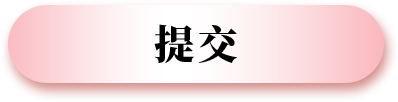
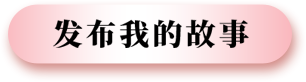
ui修改

diff --git a/src/view/Pictures.vue b/src/view/Pictures.vue
@@ -8,10 +8,10 @@
             multiple
             :after-read="afterRead">
         </van-uploader>
-        <van-field v-model="city" placeholder="所在城市" />
+        <van-field style="background-color: #fddbde" v-model="city" placeholder="所在城市" />
         <van-field v-model="clinicName" placeholder="诊所名称" />
         <div class="row">
-          <van-field label-width="30" v-model="userName" placeholder="医生名称" />
+          <van-field label-width="30" style="background-color: #fddbde" v-model="userName" placeholder="医生名称" />
           <van-dropdown-menu>
             <van-dropdown-item v-model="recommendation" :options="option1" />
           </van-dropdown-menu>
@@ -90,12 +90,12 @@ const afterRead = (file:any) => {
 
 // 表单
 const option1 = [
-  { text: '自荐', value: '自荐' },
-  { text: '推荐', value: '推荐' },
+  { text: '我的故事', value: '我的故事' },
+  { text: '他的故事', value: '他的故事' },
 ];
 const city = ref('')
 const clinicName = ref('')
-const recommendation = ref('自荐')
+const recommendation = ref('我的故事')
 const userName = ref('')
 const textarea = ref('')
 const fromData = {
@@ -117,9 +117,9 @@ const sumbitFrom = () => {
     fromData.content = textarea.value
     fromData.imgUrl = files.value
     fromData.title = userName.value
-    console.log(fromData)
     userFrom(JSON.stringify(fromData)).then((res:any) =>{
       if (res.code === 200) {
+        cookies.setCookie('fromData',JSON.stringify(fromData))
         Dialog.confirm({
           message: '提交成功',
           confirmButtonText:"查看更多",
@@ -154,30 +154,32 @@ const sumbitFrom = () => {
 
 <style scoped lang="less">
   .content {
-    height: 100vh;
     overflow: auto;
     background: url("../assets/images/uploadBgimg.png") no-repeat;
     background-size: 100% 100%;
 
     .uploadBox{
-      background: url("../assets/images/uploadBgimg.png") no-repeat;
-      background-size: 100% auto;
+      //background: url("../assets/images/uploadBgimg.png") no-repeat;
+      //background-size: 100% auto;
       display: flex;
       flex-direction: column;
       // justify-content: center;
       // align-items: center;
+      //border: 1px solid #000000;
+      //height: 80%;
       text-align: center;
       padding: 0 20px;
-
       .uploadImg{
         // width: 70%;
         display: flex;
         flex-direction: column;
-        margin-top: 80px;
+        margin-top: 25%;
         background: url('../assets/images/uploadBgimg3.png') no-repeat;
         background-size: 100% 100%;
-        padding: 100px 40px 30px;
-
+        padding: 60px 40px 30px;
+        :deep(.van-uploader__preview){
+          margin: 0;
+        }
         .uploadImgBtn{
           display: flex;
           justify-content: center;
@@ -213,12 +215,13 @@ const sumbitFrom = () => {
           box-shadow: unset;
         }
         :deep(.van-dropdown-menu__title){
-          width: 70%;
+          width: 78%;
+          margin-right: 0.2rem;
         }
         :deep(.van-dropdown-menu__title:after){
           color: red;
           opacity: 1;
-          border-color: #911e1e00 #6c5c5c00 #000000 #000000;
+          border-color: #911e1e00 #6c5c5c00 #f50000 #f50000;
         }
       }
     }
@@ -257,10 +260,11 @@ const sumbitFrom = () => {
     }
   }
   :deep(.van-dropdown-item){
-    width: 130px;
+    width: 4rem;
     height: 112px;
-    right: 61px;
+    right: 58px;
     left: unset;
+    top: 448.475px !important;
     .van-overlay{
       background-color: transparent;
     }

diff --git a/src/view/posters.vue b/src/view/posters.vue
@@ -1,0 +1,131 @@
+<template>
+ <div class="postersBox">
+   <!-- 生成海报 -->
+   <div v-if="!isMakePoster" class="posterTemplate" ref="posterTemplate">
+     <div  class="userImg">
+       <img  style="width: 100%;height: 100%" :src=fromData.imgUrl class="posterBg" />
+     </div>
+     <div>
+       <div class="userInfo">
+          <div class="userName">{{ fromData.title }}</div>
+         <div class="hospitalName">{{ fromData.clinic}}</div>
+         <div class="introduce">{{ fromData.content }}</div>
+       </div>
+     </div>
+   </div>
+   <div v-else class="posterImg" style="width: 100%;height: 100vh">
+      <img style="width: 100%;height: 100%" :src="posterUrl">
+     <div class="bottomTip">
+       <span>长按保存海报到手机</span>
+     </div>
+   </div>
+ </div>
+</template>
+
+<script setup>
+import { reactive, ref } from "vue";
+import { useRouter } from "vue-router";
+import html2canvas from "html2canvas";
+import { Toast } from 'vant';
+import { useCookie } from "vue-cookie-next";
+import 'vant/es/toast/style';
+import {message} from "ant-design-vue";
+const router = useRouter();
+const cookies = useCookie()
+
+
+const fromData = cookies.getCookie('fromData')
+
+// 生成海报
+const isMakePoster = ref(false)
+const userImg = ref('https://ssl.resource.synconize.com/1667536527423-36D71A48-15CE-4445-948F-3EF6E8CF86B4.jpeg')
+const posterTemplate = ref('');
+const posterUrl = ref('')
+const makePoster = () => {
+  Toast({
+    message:"海报生成中...",
+    type:'loading',
+    duration:1500
+  });
+  setTimeout(() => {
+    html2canvas(posterTemplate.value, {
+      backgroundColor: null,
+      useCORS: true, // 开启跨越配置
+      scale: 4,
+      dpi: 400,
+    }).then(canvas => {
+      // Snackbar.clear(); // 清除上传动画
+      posterUrl.value = canvas.toDataURL("image/*");
+      isMakePoster.value = true
+      Toast({
+        message:'海报生成成功',
+        type:'success',
+        duration:1000
+      });
+    }, 100);
+  });
+}
+
+setTimeout(() =>{
+  makePoster()
+},800)
+
+
+</script>
+
+<style scoped lang="less">
+.postersBox{
+  height: 100vh;
+  width: 100%;
+  .posterTemplate{
+    height: 100%;
+    background-image: url("../assets/images/postersBgimg.png");
+    background-repeat: no-repeat;
+    background-size: 100% 100%;
+    .userImg{
+      width: 69%;
+      height: 40%;
+      transform: rotate(11deg);
+      position: absolute;
+      top:25%;
+      left: 19%;
+    }
+    .userInfo{
+      width: 69%;
+      height: 20%;
+      position: absolute;
+      top:68%;
+      transform: rotate(10deg);
+      left: 5%;
+      .userName{
+        font-size: 0.7rem;
+        letter-spacing: 2px;
+        color: white;
+        -webkit-text-stroke: 1px #000000;
+      }
+      .hospitalName{
+        font-size: 0.4rem;
+        font-weight: bolder;
+        margin: 5px 0;
+      }
+      .introduce{
+        font-size: 0.35rem;
+      }
+
+    }
+
+  }
+}
+.bottomTip{
+  position: fixed;
+  bottom: 0;
+  height: 25px;
+  font-size: 0.35rem;
+  font-weight: bolder;
+  width: 100%;
+  background-color: #f50000;
+  text-align: center;
+  color: white;
+  opacity: 0.8;
+}
+</style>

diff --git a/src/view/photoList.vue b/src/view/photoList.vue
@@ -25,17 +25,22 @@
                  <div v-if="!item.isLike" style="display: flex;align-items: center">
                    <van-icon @click="clickLike(item)" size="22" name="like-o" />
                    {{ item.countPage }}
+                   {{ item.totalCount }}
                  </div>
                  <div v-else style="display: flex;align-items: center">
                    <van-icon @click="clickLike(item)" color="red" size="22" v-show="!like" name="like" />
                    {{ item.countPage }}
+                   {{ item.totalCount }}
                  </div>
                </div>
              </div>
            </div>
          </div>
+       <div class="bottomTab">
+         <img @click="generatePoster" src="../assets/images/postersBtn.png">
+         <img @click="player" src="../assets/images/playerBtn.png">
+       </div>
      </van-list>
-<!--     <div class="bottomText">&#45;&#45;&#45;&#45;&#45;&#45;&#45;&#45; 没有更多了 &#45;&#45;&#45;&#45;&#45;&#45;&#45;&#45;</div>-->
    </div>
  </div>
 </template>
@@ -45,6 +50,8 @@ import { reactive, ref } from "vue";
 import { useRouter } from "vue-router";
 import { getAllList,cliLike } from "../api/path";
 import { useCookie } from "vue-cookie-next";
+import { Toast } from 'vant';
+import 'vant/es/toast/style';
 const cookies = useCookie()
 const router = useRouter();
 
@@ -56,13 +63,11 @@ const loading = ref(false);
 const finished = ref(false);
 const onLoad = () => {
   loading.value = true;
-  console.log('加载')
   setTimeout(() => {
     data1.pageSize += 4
     getAllList(data1).then((res:any) =>{
       const size = res.data.totalCount
       photoList.value = res.data.pagedList
-      console.log(photoList)
     })
     loading.value = false;
 
@@ -85,10 +90,8 @@ const getPhotoList = () => {
     photoList.value = res.data.pagedList
     size.value = res.data.totalCount
     if (size.value === 0 || size.value <= data1.pageSize) {
-      console.log(333)
       finished.value = true
     }
-    console.log(photoList)
   })
 }
 getPhotoList()
@@ -106,6 +109,25 @@ const clickLike = (item:any) => {
   })
 }
 
+// 生成海报
+const generatePoster = () => {
+  console.log(cookies.getCookie('openId'))
+  if (!cookies.getCookie('openId')) {
+    Toast.fail('请先参与活动再分享吧！')
+  } else {
+    router.push({
+      path:'/posters'
+    })
+  }
+}
+
+// 参与活动
+const player = () => {
+  router.replace({
+    path:'/'
+  })
+}
+
 </script>
 
 <style scoped lang="less">
@@ -117,8 +139,8 @@ const clickLike = (item:any) => {
     width: 100%;
     position: absolute;
     overflow: scroll;
-    bottom: 6.5%;
-    height: 44vh;
+    bottom: 1%;
+    height: 52vh;
     .van-list{
       //display: flex;
       ////flex-direction: column;
@@ -178,11 +200,24 @@ const clickLike = (item:any) => {
   }
 }
 :deep(.van-list__finished-text){
+  position: absolute;
+  right: 40%;
 }
 .bottomText{
   display: flex;
   justify-content: center;
   color: #999999;
   font-size: 0.3rem;
+}
+.bottomTab{
+  width: 100%;
+  display: flex;
+  justify-content: space-around;
+  position: fixed;
+  bottom: 0.4rem;
+  left: 0;
+  img{
+    width: 40%;
+  }
 }
 </style>

diff --git a/src/view/login.vue b/src/view/login.vue
@@ -66,14 +66,13 @@ const playClick = () =>{
 <style lang="less" scoped>
   .loginBox{
     height: 100vh;
-
-    background: url('@/assets/images/loginBgimg.png') no-repeat fixed;
+    background: url('../assets/images/loginBgimg.png') no-repeat fixed;
     background-size: 100% 100%;
     display: flex;
     justify-content: center;
     img{
       position: absolute;
-      bottom: 2rem;
+      bottom: 1.4rem;
       margin: 0 auto;
       width: 5rem;
     }

diff --git a/src/router/index.ts b/src/router/index.ts
@@ -15,6 +15,11 @@ const routes: Array<RouteRecordRaw> = [
     path:'/photoList',
     name:'photoList',
     component:() => import('../view/photoList.vue')
+  },
+  {
+    path:'/posters',
+    name:'posters',
+    component:() => import('../view/posters.vue')
   }
 ]
 
